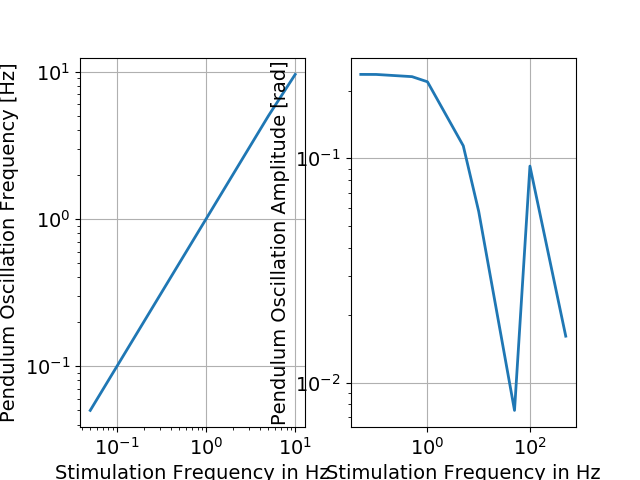
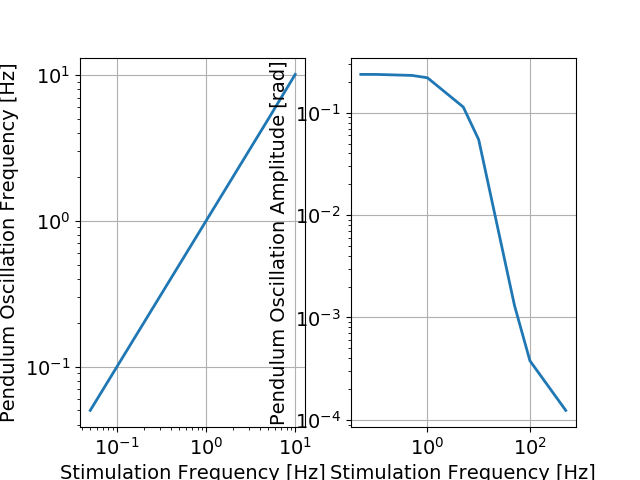
fixing bug 2c

diff --git a/Lab6/Python/exercise3.py b/Lab6/Python/exercise3.py
@@ -28,7 +28,145 @@ plt.rc('axes', labelsize=14.0)    # fontsize of the x and y labels
 plt.rc('xtick', labelsize=14.0)    # fontsize of the tick labels
 plt.rc('ytick', labelsize=14.0)    # fontsize of the tick labels
 
+def exrcise3a(): 
+    P_params = PendulumParameters()  # Instantiate pendulum parameters
+    P_params.L = 0.5  # To change the default length of the pendulum
+    P_params.m = 1.  # To change the default mass of the pendulum
+    pendulum = PendulumSystem(P_params)  # Instantiate Pendulum object
 
+    #### CHECK OUT Pendulum.py to ADD PERTURBATIONS TO THE MODEL #####
+
+    pylog.info('Pendulum model initialized \n {}'.format(
+        pendulum.parameters.showParameters()))
+
+    # Define and Setup your pendulum model here
+    # Check MuscleSytem.py for more details on MuscleSytem class
+    M1_param = MuscleParameters()  # Instantiate Muscle 1 parameters
+    M1_param.f_max = 1500  # To change Muscle 1 max force
+    M2_param = MuscleParameters()  # Instantiate Muscle 2 parameters
+    M2_param.f_max = 1500  # To change Muscle 2 max force
+    M1 = Muscle(M1_param)  # Instantiate Muscle 1 object
+    M2 = Muscle(M2_param)  # Instantiate Muscle 2 object
+    # Use the MuscleSystem Class to define your muscles in the system
+    muscles = MuscleSytem(M1, M2)  # Instantiate Muscle System with two muscles
+    pylog.info('Muscle system initialized \n {} \n {}'.format(
+        M1.parameters.showParameters(),
+        M2.parameters.showParameters()))
+
+    # Define Muscle Attachment points
+    m1_origin = np.array([-0.17, 0.0])  # Origin of Muscle 1
+    m1_insertion = np.array([0.0, -0.17])  # Insertion of Muscle 1
+
+    m2_origin = np.array([0.17, 0.0])  # Origin of Muscle 2
+    m2_insertion = np.array([0.0, -0.17])  # Insertion of Muscle 2
+
+    # Attach the muscles
+    muscles.attach(np.array([m1_origin, m1_insertion]),
+                   np.array([m2_origin, m2_insertion]))
+
+    ##### Neural Network #####
+    # The network consists of four neurons
+    N_params = NetworkParameters()  # Instantiate default network parameters
+    N_params.D = 2.  # To change a network parameter
+    # Similarly to change w -> N_params.w = (4x4) array
+    N_params.w = np.transpose([[0., -5., 5., -5.],
+                               [-5., 0., -5., 5.],
+                               [-5., 0., 0., 0.],
+                               [0., -5., 0., 0.]] ) 
+
+    # Create a new neural network with above parameters
+    neural_network = NeuralSystem(N_params)
+    pylog.info('Neural system initialized \n {}'.format(
+        N_params.showParameters()))
+
+    # Create system of Pendulum, Muscles and neural network using SystemClass
+    # Check System.py for more details on System class
+    sys = System()  # Instantiate a new system
+    sys.add_pendulum_system(pendulum)  # Add the pendulum model to the system
+    sys.add_muscle_system(muscles)  # Add the muscle model to the system
+    # Add the neural network to the system
+    sys.add_neural_system(neural_network)
+    
+    
+    ##### Time #####
+    t_max = 3  # Maximum simulation time
+    time = np.arange(0., t_max, 0.001)  # Time vector
+
+    ##### Model Initial Conditions #####
+    x0_P = np.array([0., 0.])  # Pendulum initial condition
+
+    # Muscle Model initial condition
+    x0_M = np.array([0., M1.L_OPT, 0., M2.L_OPT])
+
+    x0_N = np.array([-0.5, 1, 0.5, 1])  # Neural Network Initial Conditions
+
+    x0 = np.concatenate((x0_P, x0_M, x0_N))  # System initial conditions
+
+    ##### System Simulation #####
+    # For more details on System Simulation check SystemSimulation.py
+    # SystemSimulation is used to initialize the system and integrate
+    # over time
+
+    sim = SystemSimulation(sys)  # Instantiate Simulation object
+
+    # Add external inputs to neural network
+    
+    # sim.add_external_inputs_to_network(ext_in)
+
+    sim.initalize_system(x0, time)  # Initialize the system state
+
+    # Integrate the system for the above initialized state and time
+    sim.simulate()
+
+    # Obtain the states of the system after integration
+    # res is np.array [time, states]
+    # states vector is in the same order as x0
+    res = sim.results()
+
+    # Obtain the states of the system after integration
+    # res is np.array [time, states]
+    # states vector is in the same order as x0
+    res = sim.results()
+
+    # In order to obtain internal states of the muscle
+    # you can access the results attribute in the muscle class
+    muscle1_results = sim.sys.muscle_sys.Muscle1.results
+    muscle2_results = sim.sys.muscle_sys.Muscle2.results
+
+    # Plotting the results
+    plt.figure('Pendulum')
+    plt.title('Pendulum Phase')
+    plt.plot(res[:, 1], res[:, 2])
+
+    plt.xlabel('Position [rad]')
+    plt.ylabel('Velocity [rad.s]')
+    plt.grid()
+    plt.figure() 
+    plt.title('Pendulum position signal')
+    plt.plot(res[:, 0], res[:, 1])
+
+    plt.xlabel('Time [s]')
+    plt.ylabel('Position [rad]')
+    plt.grid()
+    if DEFAULT["save_figures"] is False:
+        plt.show()
+    else:
+        figures = plt.get_figlabels()
+        pylog.debug("Saving figures:\n{}".format(figures))
+        for fig in figures:
+            plt.figure(fig)
+            save_figure(fig)
+            plt.close(fig)
+
+    # To animate the model, use the SystemAnimation class
+    # Pass the res(states) and systems you wish to animate
+    simulation = SystemAnimation(
+        res,
+        sim.sys.pendulum_sys,
+        sim.sys.muscle_sys,
+        sim.sys.neural_sys)
+    # To start the animation
+    simulation.animate()
 def exercise3():
     """ Main function to run for Exercise 3.
 

diff --git a/Lab6/Python/exercise2.py b/Lab6/Python/exercise2.py
@@ -111,7 +111,7 @@ def exercise2c():
     sys.add_muscle_system(muscles)  # Add the muscle model to the system
 
     ##### Model Initial Conditions #####
-    x0_P = np.array([np.pi/6, 0.])  # Pendulum initial condition
+    x0_P = np.array([0, 0.])  # Pendulum initial condition
 
     # Muscle Model initial condition
     x0_M = np.array([0., M1.L_OPT, 0., M2.L_OPT])
@@ -167,12 +167,12 @@ def exercise2c():
     plt.subplot(121)
     plt.loglog(stim_frequency,frequency_pendelum)
     plt.grid()
-    plt.xlabel('Stimulation Frequency in Hz')
+    plt.xlabel('Stimulation Frequency [Hz]')
     plt.ylabel('Pendulum Oscillation Frequency [Hz]')
     plt.subplot(122)
     plt.loglog(stim_frequency,amplitude_pendelum)
     plt.grid()
-    plt.xlabel('Stimulation Frequency in Hz')
+    plt.xlabel('Stimulation Frequency [Hz]')
     plt.ylabel('Pendulum Oscillation Amplitude [rad]')
     plt.savefig('2c.png')
     plt.show()
@@ -213,12 +213,12 @@ def exercise2c():
     plt.subplot(121)
     plt.plot(stim_amplitude,frequency_pendelum)
     plt.grid()
-    plt.xlabel('Stimulation Amplitude')
+    plt.xlabel('Stimulation Amplitude [rad]')
     plt.ylabel('Pendulum Oscillation Frequency [Hz]')
     plt.subplot(122)
     plt.plot(stim_amplitude,amplitude_pendelum)
     plt.grid()
-    plt.xlabel('Stimulation Amplitude')
+    plt.xlabel('Stimulation Amplitude[rad]')
     plt.ylabel('Pendulum Oscillation Amplitude [rad]')
     plt.savefig('2c_amplitude.png')
     plt.show()
@@ -345,7 +345,11 @@ def exercise2():
     plt.xlabel('Position [rad]')
     plt.ylabel('Velocity [rad.s]')
     plt.grid()
-
+    plt.figure('Activations')
+    plt.title('Sine wave activations for both muscles')
+    plt.plot(time,act1)
+    plt.plot(time,act2)
+    plt.legend(("activation muscle1","activation muscle2"))
     # To animate the model, use the SystemAnimation class
     # Pass the res(states) and systems you wish to animate
     simulation = SystemAnimation(res, pendulum, muscles)

diff --git a/Lab6/Python/lab6.py b/Lab6/Python/lab6.py
@@ -1,7 +1,7 @@
 """ Lab 6 """
 from exercise2 import exercise2
 from exercise2 import exercise2a , exercise2c
-from exercise3 import exercise3
+from exercise3 import exercise3 , exrcise3a
 import cmc_pylog as pylog
 
 
@@ -9,10 +9,11 @@ def main():
     """Main function that runs all the exercises."""
     pylog.info('Implementing Lab 6 : Exercise 2a')
     #exercise2a()
-    exercise2c() 
+    #exercise2c() 
     #pylog.info('Implementing Lab 6 : Exercise 2')
-    #exercise2()
+    exercise2()
     #pylog.info('Implementing Lab 6 : Exercise 3')
+    #exrcise3a()
     #exercise3()
     return
 
